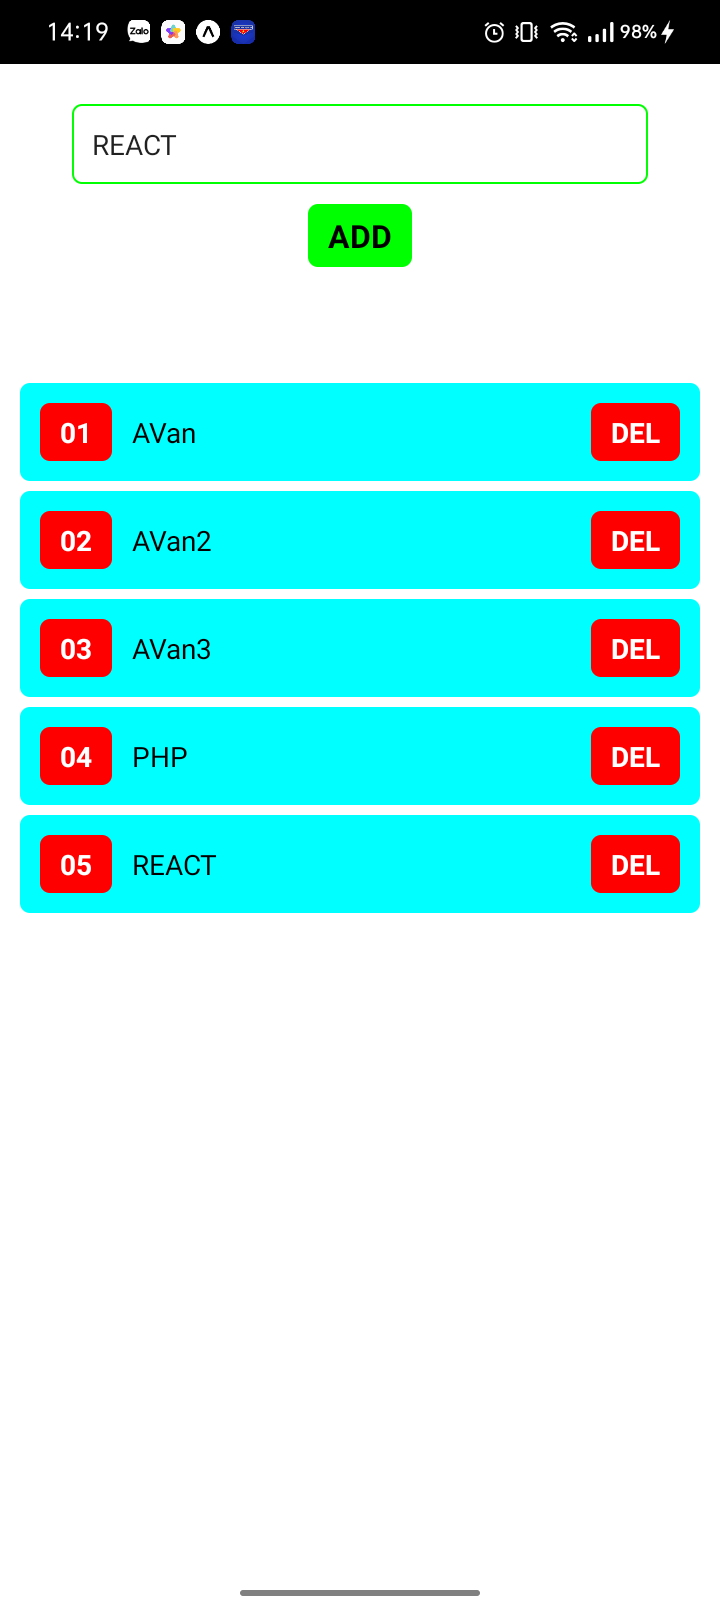
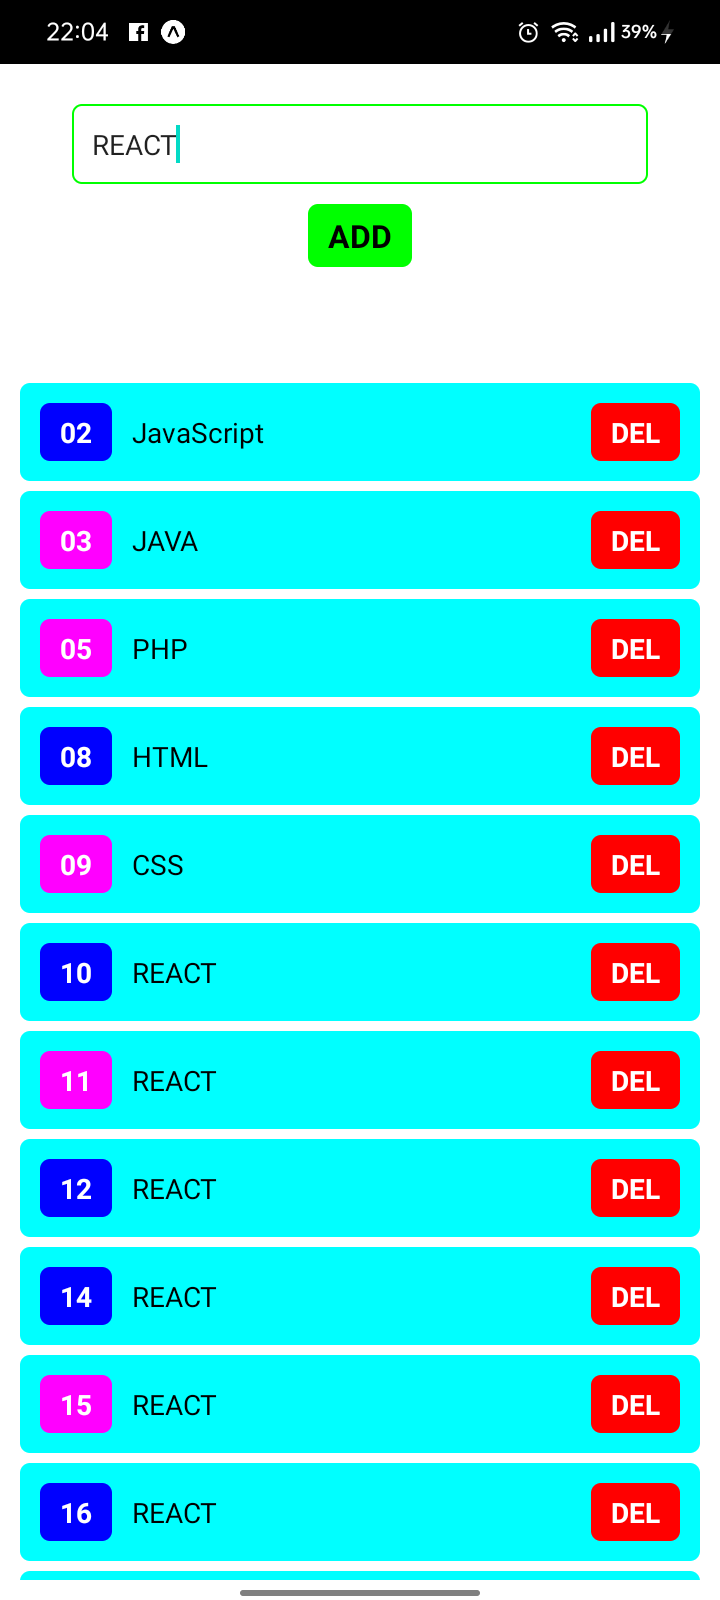
App todoList - Del item

diff --git a/App-todoList/src/components/ComponentList.js b/App-todoList/src/components/ComponentList.js
@@ -1,79 +1,74 @@
-import { View, Text, StatusBar, TextInput, TouchableOpacity } from 'react-native'
+import { View, Text, StatusBar, TextInput, TouchableOpacity, ScrollView, Alert } from 'react-native'
 import React, { useEffect, useState } from 'react'
 
 import styles from '../themes/styleList';
 import color from '../config/color';
-
-const ComponentItem = (props) => {
-
-    const item = props.item;
-
-    const number = item.id;
-    const numberText = number < 10 ? `0${number}` : number;
-
-
-    return (
-        <View style={[styles.row,
-        {
-            width: "100%",
-            marginBottom: 5,
-            padding: 10,
-            paddingHorizontal: 10,
-            backgroundColor: '#0ff',
-            borderRadius:5,
-        }]} >
-            <Text style={[{borderRadius:5, padding: 5, paddingHorizontal: 10, fontWeight: 'bold', color: '#fff', backgroundColor: color.red }]}   >{numberText}</Text>
-            <Text style={[styles.flex_1, { padding: 5, paddingHorizontal: 10 }]}   >{item.text}</Text>
-
-            <TouchableOpacity ><Text style={[{
-                borderRadius:5,
-                padding: 5, 
-                paddingHorizontal: 10, 
-                fontWeight: 'bold', 
-                color: '#fff', 
-                backgroundColor: color.red, 
-                textTransform: 'uppercase',
-                }]} >Del</Text></TouchableOpacity>
-        </View>
-    )
-}
-
+import ComponentItem from './ComponentItem';
 
 const ComponentList = (props) => {
 
     let db = [
         {
             id: 1,
-            text: 'AVan',
+            text: 'Java',
         },
         {
             id: 2,
-            text: 'AVan2',
+            text: 'JavaScript',
         },
         {
             id: 3,
-            text: 'AVan3',
+            text: 'PHP',
         },
     ];
 
     const [listData, setlistData] = useState([])
 
     useEffect(() => {
-      setlistData(db)
+        setlistData(db)
     }, []);
-    
+
 
     const [txtText, setTxtText] = useState('');
 
     //
     function funClickAdd() {
-        let idnew = listData.length+1;
+        console.log("🚀 ~ file: ComponentList.js ~ line 75 ~ funClickAdd ~ funClickAdd")
+        if (txtText.length == 0) {
+            return;
+        }
+        let val_end = listData[listData.length-1]  ;//   gia tri cuoi trong list
+        let idnew =  val_end.id + 1;
         let val = { id: idnew, text: txtText }
-        setlistData([...listData, val])
-        console.log("🚀 ~ file: ComponentList.js ~ line 62 ~ funClickAdd ~ val", val)
-        console.log("🚀 ~ file: ComponentList.js ~ line 55 ~ funClickAdd ~ listData", listData)
+        setlistData([...listData, val]);
 
     }
+    //
+    const funDeleteItem = (index) => {
+        console.log("🚀 ~ file: ComponentList.js ~ line 48 ~ funDeleteItem ~ funDeleteItem ")
+
+        let a_val = listData[index];
+        Alert.alert(
+            "Thông báo!!!",
+            `Bạn có muốn xóa ${a_val.text} không ? `,
+            [
+                {
+                    text: "Cancel",
+                },
+                { 
+                    text: "OK", 
+                    onPress: () => {
+                        const listDataTmp = [...listData];
+                        listDataTmp.splice(index,1);
+                        
+                        setlistData(listDataTmp);
+                    }
+                }
+            ]
+        );
+    }
+    
+
 
     return (
         <View style={[{}, styles.flex_1]} >
@@ -91,11 +86,13 @@ const ComponentList = (props) => {
             <View style={[styles.flex_4, {
                 padding: 10,
             }]}  >
-                {
-                    listData.map((item) => {
-                        return <ComponentItem key={item.id} item={item} />
-                    })
-                }
+                <ScrollView>
+                    {
+                        listData.map((item, index) => {
+                            return <ComponentItem key={index} item={item} funDelItem={() => {funDeleteItem(index)}} />
+                        })
+                    }
+                </ScrollView>
             </View>
 
             <StatusBar />

diff --git a/App-todoList/src/components/ComponentItem.js b/App-todoList/src/components/ComponentItem.js
@@ -1,0 +1,48 @@
+import { View, Text, TouchableOpacity } from 'react-native'
+import React from 'react'
+
+import styles from '../themes/styleList';
+import color from '../config/color';
+
+const ComponentItem = (props) => {
+
+    const item = props.item;
+
+    const number = item.id;
+    const numberText = number < 10 ? `0${number}` : number;
+
+    const numberColor = number % 2 === 0 ? styles.colorOrange : styles.colorYellow;
+
+    // const clickDel = () =>{
+    // console.log("🚀 ~ file: ComponentItem.js ~ line 18 ~ clickDel ~ clickDel")
+    // props.funDelItem;
+    // }
+
+    return (
+        <View style={[styles.row,
+        {
+            width: "100%",
+            marginBottom: 5,
+            padding: 10,
+            paddingHorizontal: 10,
+            backgroundColor: '#0ff',
+            borderRadius: 5,
+        }]} >
+            <Text style={[numberColor, { borderRadius: 5, padding: 5, paddingHorizontal: 10, fontWeight: 'bold', color: '#fff' }]}   >{numberText}</Text>
+            <Text style={[styles.flex_1, { padding: 5, paddingHorizontal: 10 }]}   >{item.text}</Text>
+
+            <TouchableOpacity onPress={props.funDelItem} >
+                <Text style={[{
+                borderRadius: 5,
+                padding: 5,
+                paddingHorizontal: 10,
+                fontWeight: 'bold',
+                color: '#fff',
+                backgroundColor: color.red,
+                textTransform: 'uppercase',
+                }]} >Del</Text></TouchableOpacity>
+        </View>
+    )
+};
+
+export default ComponentItem;

diff --git a/App-todoList/src/themes/styleList.js b/App-todoList/src/themes/styleList.js
@@ -50,6 +50,9 @@ export default StyleSheet.create({
         marginTop: 10,
     },
 
+    colorYellow: {backgroundColor: '#f0f'},
+    colorOrange: {backgroundColor: '#00f'},
+
 })
 
 
